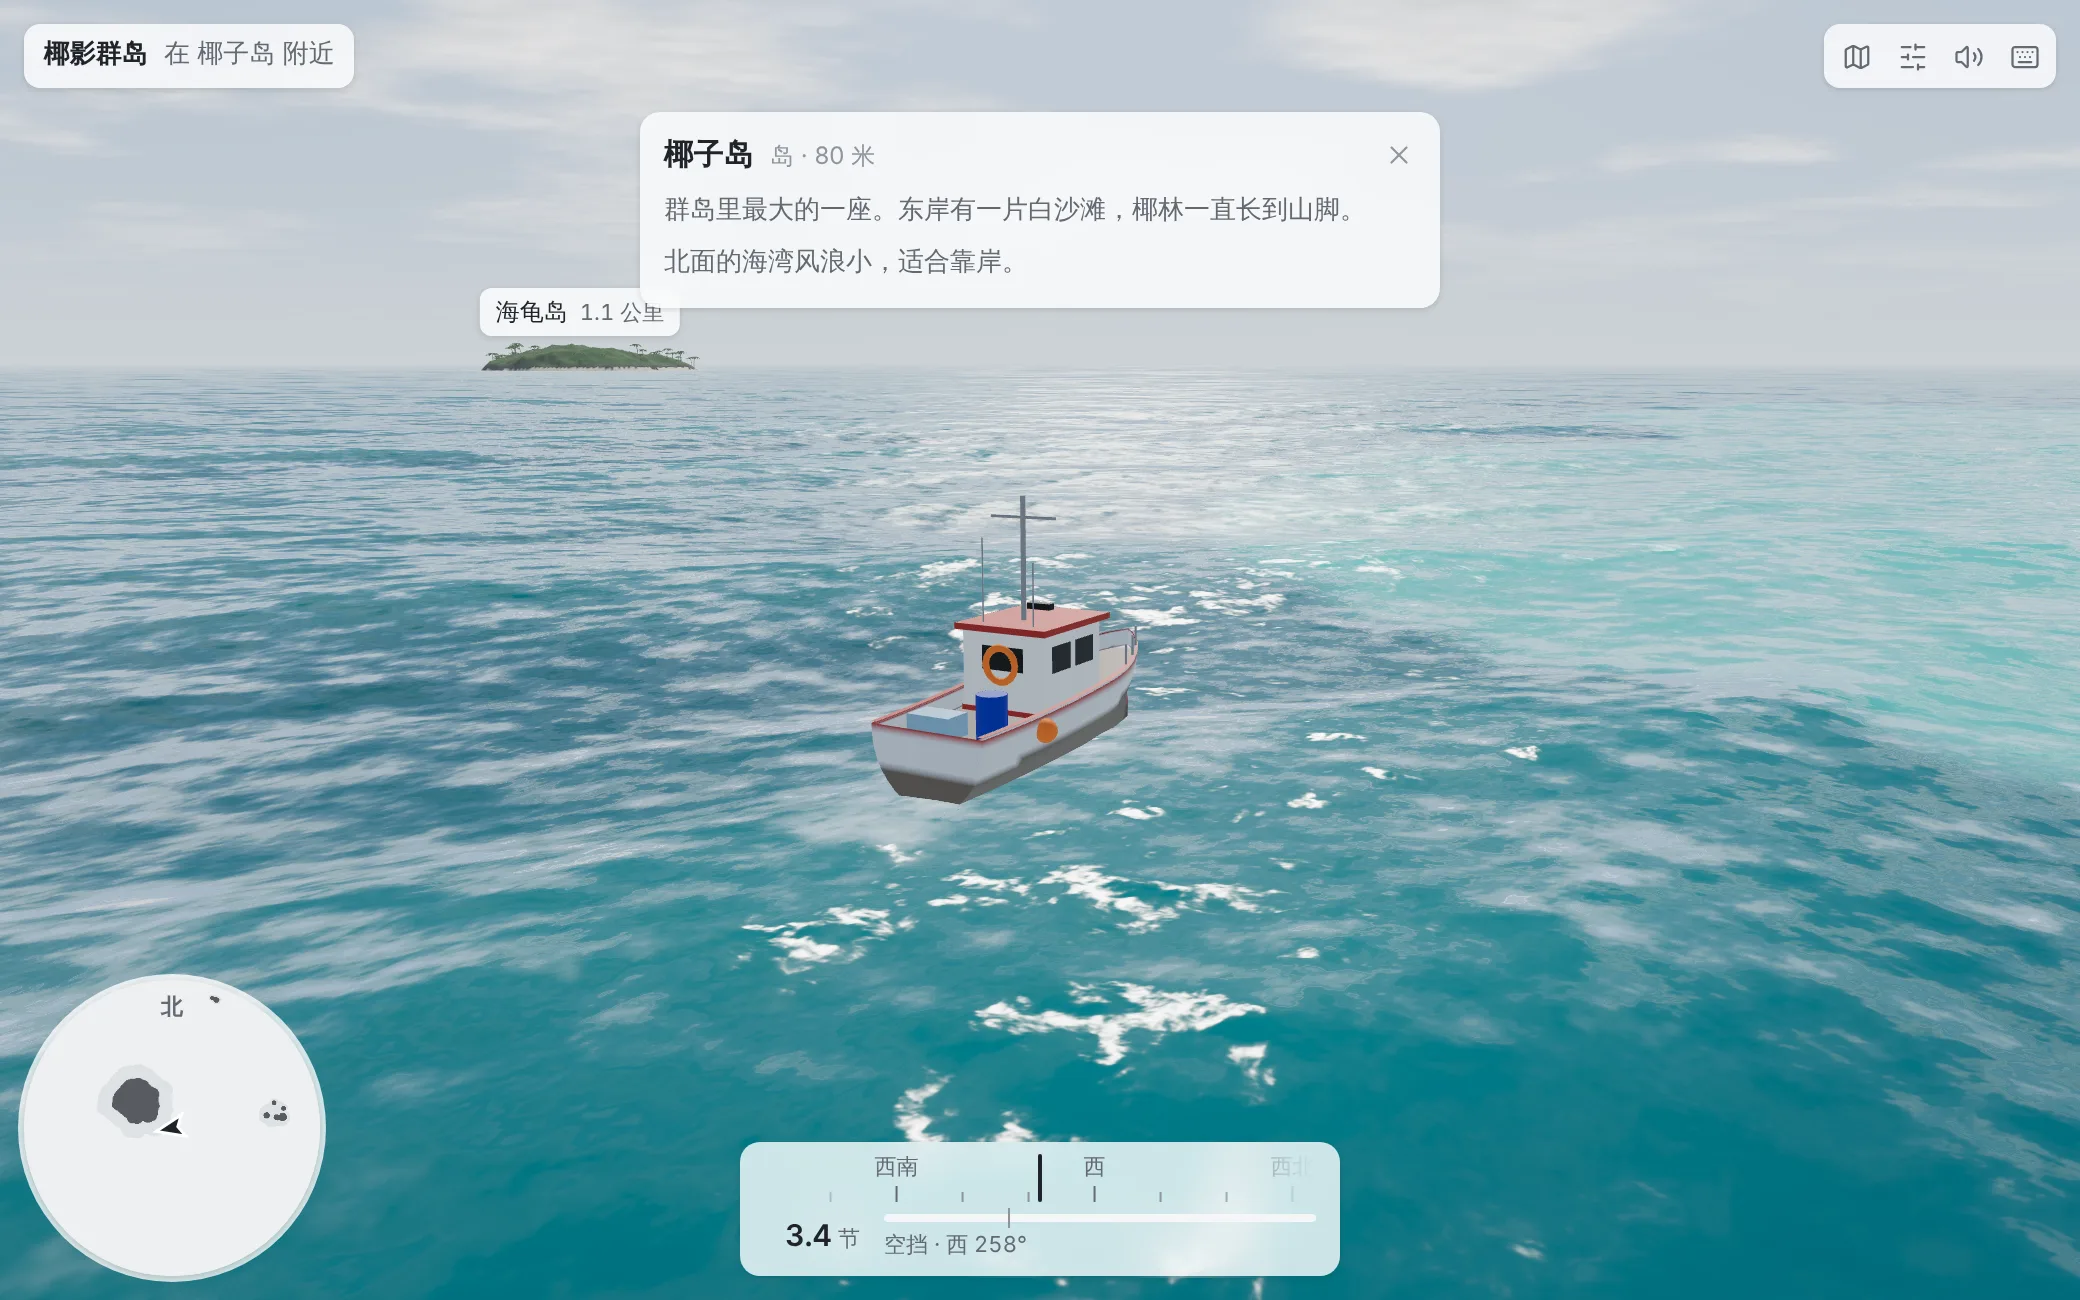
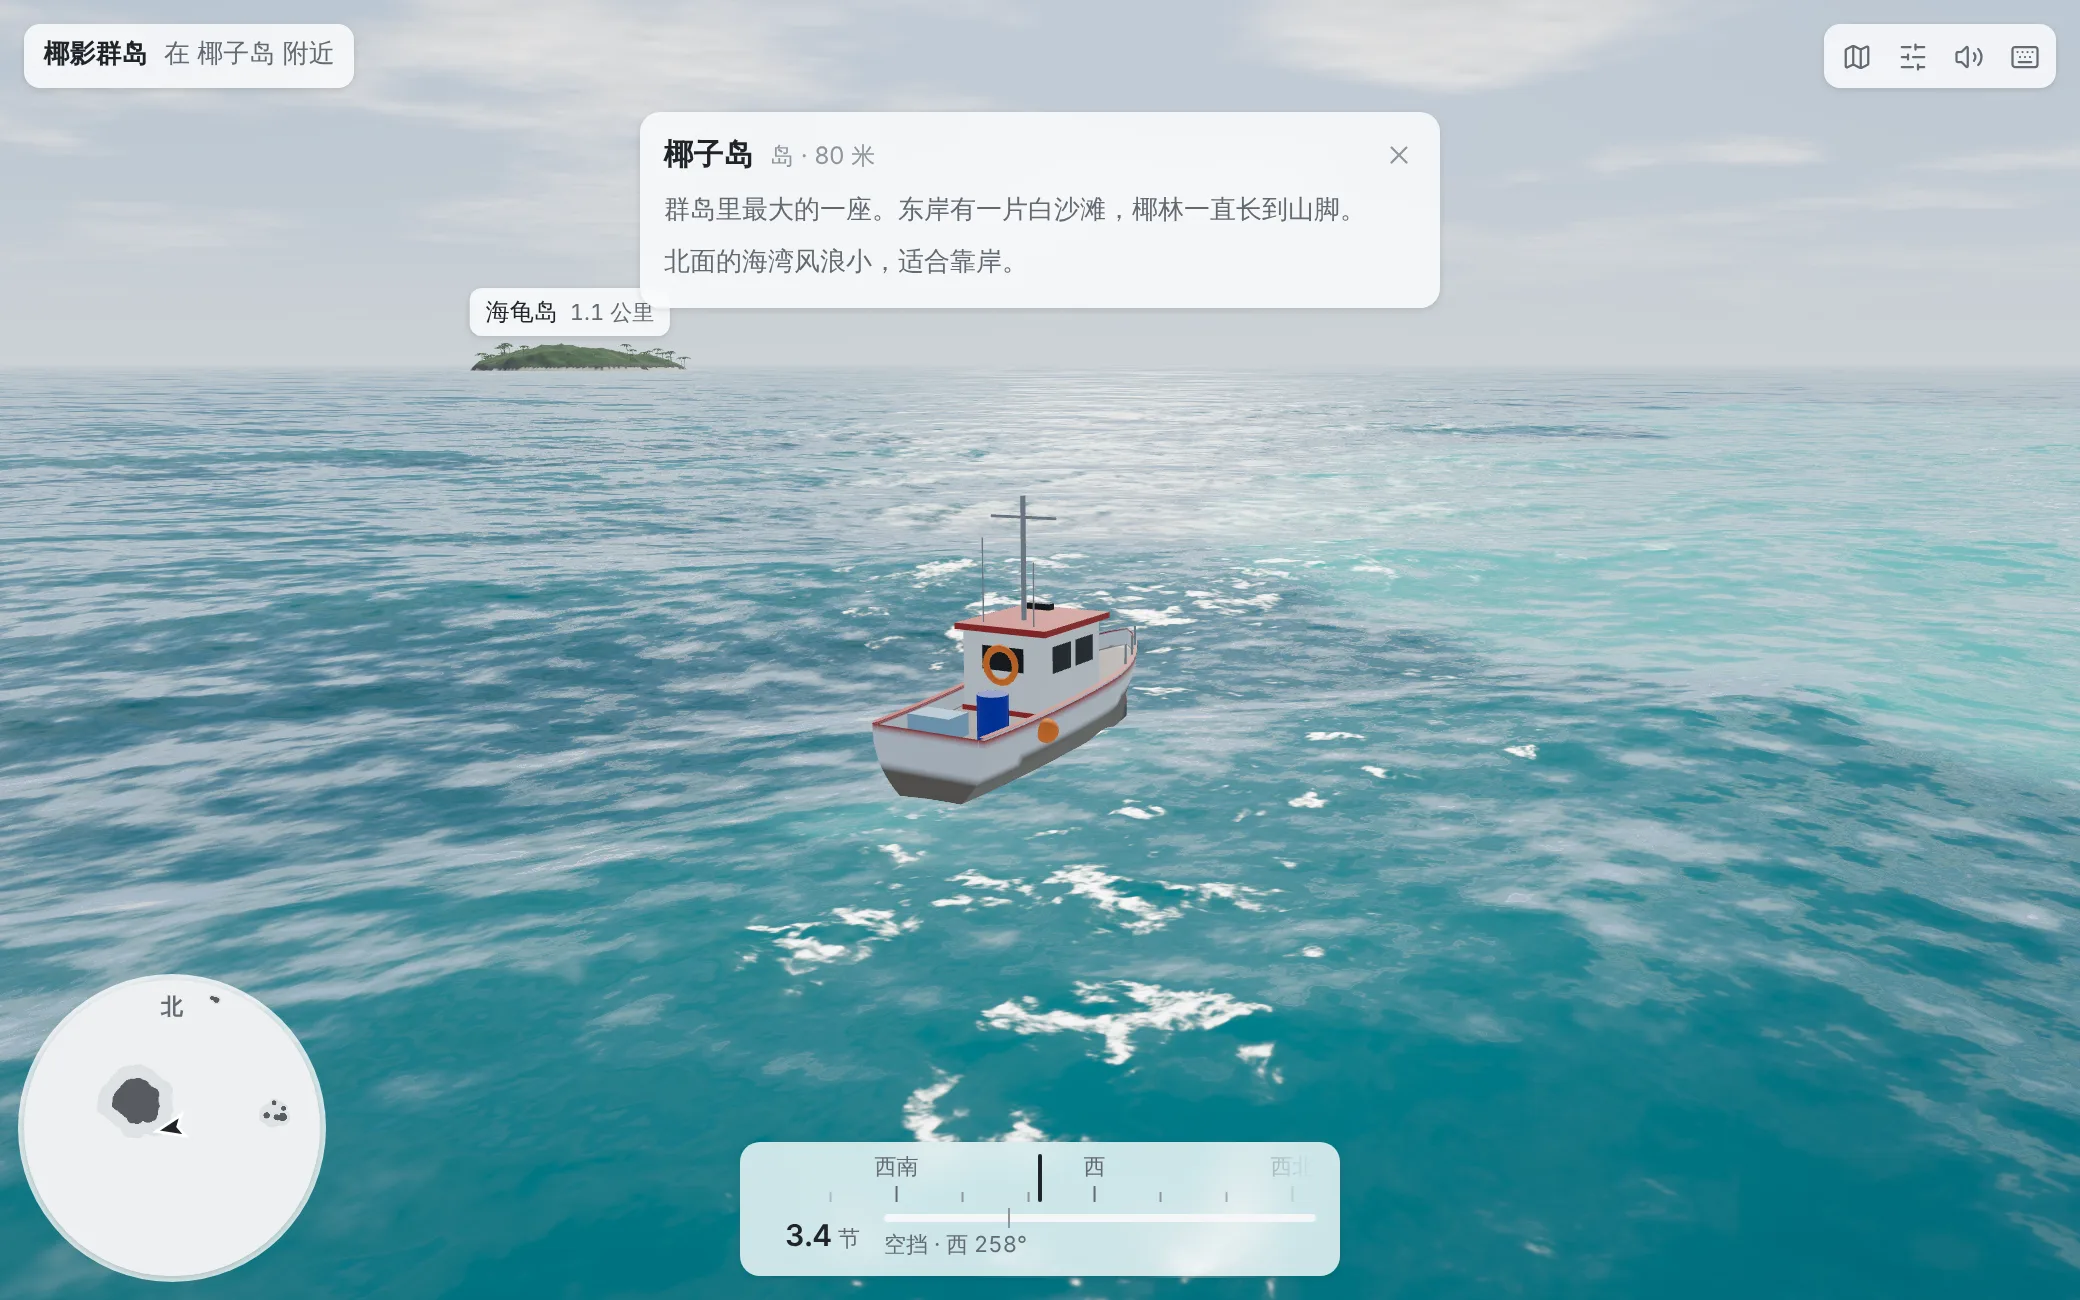
航海: a wake that looks like water, not paint
The wake texture now carries three things: foam, bubbles under the
surface, and the height of the bow's V. The sea's shader raises the V
into ridges (lit by their slopes, a little foam on their crests), turns
the bubbles into the pale turquoise trail behind a boat, and tears the
churn behind the stern into ragged foam that breaks up as it ages. White
water now runs along the hull from the bow.

Claude-Session: https://claude.ai/code/session_01CewNoAFbrSSvGsNNKPnVJH

diff --git a/templates/src/ocean/wake.ts b/templates/src/ocean/wake.ts
@@ -1,14 +1,18 @@
 // The boat's wake, drawn from above into a small texture that moves with
-// the boat: the churned water behind the stern and the two arms of the V
-// that spread from the bow. The sea's shader turns it into foam.
+// the boat: the churned water behind the stern (white foam, then a trail
+// of bubbles), the two arms of the V that spread from the bow (ridges of
+// water with a little foam), and the white water along the hull. The
+// sea's shader raises the ridges, lights them, and turns the rest into
+// foam and paler water.
 
 import * as THREE from "three";
 import { clamp } from "./noise";
-import { LENGTH, MAX_SPEED, type BoatState } from "./boat";
+import { LENGTH, MAX_SPEED, halfWidth, type BoatState } from "./boat";
 
 export const WAKE_SIZE = 240; // metres across the texture
 const RES = 512;
-const LIFE = 14; // seconds a bit of wake lasts
+const LIFE = 16; // seconds a bit of wake lasts
+const MAX_QUADS = 3200;
 type Mark = { x: number; z: number; fx: number; fz: number; v: number; t: number };
 
 export class Wake {
@@ -19,19 +23,30 @@ export class Wake {
   private scene = new THREE.Scene();
   private cam = new THREE.OrthographicCamera(-WAKE_SIZE / 2, WAKE_SIZE / 2, WAKE_SIZE / 2, -WAKE_SIZE / 2, -10, 10);
   private geo = new THREE.BufferGeometry();
-  private pos = new Float32Array(6 * 3 * 2400);
-  private val = new Float32Array(6 * 2400);
-  private across = new Float32Array(6 * 2400);
+  private pos = new Float32Array(6 * 3 * MAX_QUADS);
+  private val = new Float32Array(6 * 3 * MAX_QUADS); // foam, bubbles, ridge
+  private across = new Float32Array(6 * MAX_QUADS);
+  private along = new Float32Array(6 * MAX_QUADS);
+  private n = 0;
 
   constructor() {
     this.target.texture.minFilter = this.target.texture.magFilter = THREE.LinearFilter;
-    this.geo.setAttribute("position", new THREE.BufferAttribute(this.pos, 3).setUsage(THREE.DynamicDrawUsage));
-    this.geo.setAttribute("v", new THREE.BufferAttribute(this.val, 1).setUsage(THREE.DynamicDrawUsage));
-    this.geo.setAttribute("c", new THREE.BufferAttribute(this.across, 1).setUsage(THREE.DynamicDrawUsage));
+    const dyn = (a: Float32Array, k: number) => new THREE.BufferAttribute(a, k).setUsage(THREE.DynamicDrawUsage);
+    this.geo.setAttribute("position", dyn(this.pos, 3));
+    this.geo.setAttribute("v", dyn(this.val, 3));
+    this.geo.setAttribute("c", dyn(this.across, 1));
+    this.geo.setAttribute("a", dyn(this.along, 1));
     const mat = new THREE.ShaderMaterial({
-      vertexShader: "attribute float v; attribute float c; varying float vv; varying float vc; void main(){ vv = v; vc = c; gl_Position = projectionMatrix * viewMatrix * vec4(position, 1.0); }",
-      // soft edges: strongest along the middle of each band
-      fragmentShader: "varying float vv; varying float vc; void main(){ gl_FragColor = vec4(vv * sqrt(max(0.0, 1.0 - vc * vc)), 0.0, 0.0, 1.0); }",
+      vertexShader: "attribute vec3 v; attribute float c; attribute float a; varying vec3 vv; varying float vc; varying float va; void main(){ vv = v; vc = c; va = a; gl_Position = projectionMatrix * viewMatrix * vec4(position, 1.0); }",
+      // red: foam, soft-edged; green: bubbles under the surface; blue: a
+      // ridge of water (0.5 is flat), highest along the middle, in a row of crests
+      fragmentShader: `varying vec3 vv; varying float vc; varying float va;
+        void main(){
+          float edge = sqrt(max(0.0, 1.0 - vc * vc));
+          float ridge = cos(clamp(vc, -1.0, 1.0) * 1.5708); ridge *= ridge;
+          float crests = 0.55 + 0.45 * sin(va + 0.9 * sin(va * 0.37));
+          gl_FragColor = vec4(vv.x * edge, vv.y * edge, 0.5 + 0.5 * vv.z * ridge * crests, 1.0);
+        }`,
       blending: THREE.CustomBlending, blendEquation: THREE.MaxEquation, blendSrc: THREE.OneFactor, blendDst: THREE.OneFactor,
       depthTest: false, depthWrite: false, side: THREE.DoubleSide,
     });
@@ -51,55 +66,89 @@ export class Wake {
     this.marks.push({ x: b.x, z: b.z, fx: Math.sin(b.heading), fz: -Math.cos(b.heading), v: Math.max(0, b.speed), t });
   }
 
+  /** A band from a to b (half widths wa, wb), with foam, bubbles and ridge at each end. */
+  private band(ax: number, az: number, bx: number, bz: number, wa: number, wb: number, va: number[], vb: number[], la: number, lb: number) {
+    if (this.n >= MAX_QUADS || Math.max(...va, ...vb) <= 0.003) return;
+    let dx = bx - ax, dz = bz - az;
+    const len = Math.hypot(dx, dz) || 1;
+    dx /= len; dz /= len;
+    const px = -dz, pz = dx;
+    const o = this.n * 18, w = this.n * 6, c3 = this.n * 18;
+    const A = [ax + px * wa, az + pz * wa], B = [ax - px * wa, az - pz * wa], C = [bx + px * wb, bz + pz * wb], D = [bx - px * wb, bz - pz * wb];
+    this.pos.set([A[0], 0, A[1], B[0], 0, B[1], C[0], 0, C[1], C[0], 0, C[1], B[0], 0, B[1], D[0], 0, D[1]], o);
+    this.val.set([...va, ...va, ...vb, ...vb, ...va, ...vb], c3);
+    this.across.set([1, -1, 1, 1, -1, -1], w);
+    this.along.set([la, la, lb, lb, la, lb], w);
+    this.n++;
+  }
+
   /** Draws the wake into the texture around the boat. */
   render(r: THREE.WebGLRenderer, b: BoatState, t: number) {
     const px = WAKE_SIZE / RES;
     this.center.set(Math.round(b.x / px) * px, Math.round(b.z / px) * px);
     this.cam.position.set(this.center.x, 5, this.center.y);
     this.cam.lookAt(this.center.x, 0, this.center.y);
-    let n = 0;
-    const quad = (ax: number, az: number, bx: number, bz: number, wa: number, wb: number, va: number, vb: number, dxa: number, dza: number, dxb: number, dzb: number) => {
-      if (n >= 2400 || (va <= 0.002 && vb <= 0.002)) return;
-      // perpendicular at each end
-      const pa = [-dza * wa, dxa * wa], pb = [-dzb * wb, dxb * wb];
-      const p = this.pos, v = this.val, o = n * 18, w = n * 6;
-      const A = [ax + pa[0], az + pa[1]], B = [ax - pa[0], az - pa[1]], C = [bx + pb[0], bz + pb[1]], D = [bx - pb[0], bz - pb[1]];
-      p.set([A[0], 0, A[1], B[0], 0, B[1], C[0], 0, C[1], C[0], 0, C[1], B[0], 0, B[1], D[0], 0, D[1]], o);
-      v.set([va, va, vb, vb, va, vb], w);
-      this.across.set([1, -1, 1, 1, -1, -1], w);
-      n++;
-    };
-    const ms = this.marks;
+    this.n = 0;
     const cur: Mark = { x: b.x, z: b.z, fx: Math.sin(b.heading), fz: -Math.cos(b.heading), v: Math.max(0, b.speed), t };
-    const all = [...ms, cur];
-    const stern = (m: Mark) => [m.x - m.fx * LENGTH * 0.5, m.z - m.fz * LENGTH * 0.5];
-    const bow = (m: Mark) => [m.x + m.fx * LENGTH * 0.42, m.z + m.fz * LENGTH * 0.42];
-    for (let i = 0; i < all.length - 1; i++) {
-      const a = all[i], c = all[i + 1];
-      const ageA = t - a.t, ageC = t - c.t;
-      const sa = clamp(a.v / MAX_SPEED, 0, 1), sc = clamp(c.v / MAX_SPEED, 0, 1);
-      const life = (age: number) => Math.pow(clamp(1 - age / LIFE, 0, 1), 1.6);
-      // the churned water behind the stern: widening, fading
-      const [ax, az] = stern(a), [cx, cz] = stern(c);
-      const wA = 1.1 + ageA * (0.45 + sa * 0.6), wC = 1.1 + ageC * (0.45 + sc * 0.6);
-      quad(ax, az, cx, cz, wA, wC, Math.min(1, sa * 2.2 + 0.08 * (a.v > 0.5 ? 1 : 0)) * life(ageA), Math.min(1, sc * 2.2) * life(ageC), a.fx, a.fz, c.fx, c.fz);
-      // the V from the bow: each arm moves out at about 19.5° to the track
+    const all = [...this.marks, cur];
+    const at = (m: Mark, s: number) => [m.x + m.fx * LENGTH * s, m.z + m.fz * LENGTH * s];
+    const sp = (m: Mark) => clamp(m.v / MAX_SPEED, 0, 1);
+    let dist = 0;
+    for (let i = all.length - 1; i > 0; i--) {
+      const c = all[i], a = all[i - 1];
+      const ageC = t - c.t, ageA = t - a.t;
+      const sc = sp(c), sa = sp(a);
+      const step = Math.hypot(c.x - a.x, c.z - a.z);
+      const dC = dist, dA = dist + step;
+      dist = dA;
+      // behind the stern: white churn at first, then a trail of bubbles
+      const [cx, cz] = at(c, -0.5), [ax, az] = at(a, -0.5);
+      const churn = (age: number, s: number) => [
+        Math.min(1, s * 2.6 + (s > 0.04 ? 0.15 : 0)) * Math.pow(clamp(1 - age / (LIFE * 0.3), 0, 1), 1.6),
+        Math.min(1, s * 2.2 + (s > 0.04 ? 0.2 : 0)) * Math.pow(clamp(1 - age / LIFE, 0, 1), 1.2),
+        0,
+      ];
+      const wid = (age: number, s: number) => 0.9 + s * 0.7 + age * (0.35 + s * 0.45);
+      this.band(cx, cz, ax, az, wid(ageC, sc), wid(ageA, sa), churn(ageC, sc), churn(ageA, sa), dC, dA);
+      // a wider, fainter scar of bubbles around the churn
+      const scar = (age: number, s: number) => [0, Math.min(0.55, s * 1.4) * Math.pow(clamp(1 - age / LIFE, 0, 1), 1.5), 0];
+      this.band(cx, cz, ax, az, wid(ageC, sc) * 1.9 + 1, wid(ageA, sa) * 1.9 + 1, scar(ageC, sc), scar(ageA, sa), dC, dA);
+      // the V from the bow: each arm a ridge moving out at about 19.5° to the track
       for (const side of [1, -1]) {
-        const [bx, bz] = bow(a), [dx, dz] = bow(c);
-        const oa = ageA * a.v * 0.354, oc = ageC * c.v * 0.354;
-        const ex = bx + -a.fz * side * oa - a.fx * ageA * 0.2, ez = bz + a.fx * side * oa - a.fz * ageA * 0.2;
-        const gx = dx + -c.fz * side * oc - c.fx * ageC * 0.2, gz = dz + c.fx * side * oc - c.fz * ageC * 0.2;
-        const vv = (age: number, s: number) => Math.min(0.55, s * 1.6) * Math.pow(clamp(1 - age / (LIFE * 0.6), 0, 1), 2) * clamp(age * 4, 0, 1);
-        quad(ex, ez, gx, gz, 0.5 + ageA * 0.12, 0.5 + ageC * 0.12, vv(ageA, sa), vv(ageC, sc), a.fx, a.fz, c.fx, c.fz);
+        const [bx, bz] = at(c, 0.42), [dx, dz] = at(a, 0.42);
+        const oc = ageC * c.v * 0.354, oa = ageA * a.v * 0.354;
+        const ex = bx - c.fz * side * oc, ez = bz + c.fx * side * oc;
+        const gx = dx - a.fz * side * oa, gz = dz + a.fx * side * oa;
+        const arm = (age: number, s: number) => {
+          const life = Math.pow(clamp(1 - age / (LIFE * 0.7), 0, 1), 1.6) * clamp(age * 3, 0, 1);
+          return [Math.min(0.85, s * 2) * life * Math.pow(clamp(1 - age / 6, 0, 1), 1.3), Math.min(0.7, s * 1.8) * life, Math.min(1, s * 2.6) * life];
+        };
+        const aw = (age: number) => 1.5 + age * 0.45;
+        // crests along the arm: about one every 3 m
+        this.band(ex, ez, gx, gz, aw(ageC), aw(ageA), arm(ageC, sc), arm(ageA, sa), dC * 2.1, dA * 2.1);
       }
     }
+    // white water pushed up along the hull, from the bow back
+    const s0 = sp(cur);
+    if (s0 > 0.02) {
+      for (const side of [1, -1]) {
+        const pts = [0.9, 0.72, 0.52, 0.32].map((s) => {
+          const off = halfWidth(s) + 0.15 + (0.9 - s) * 0.9;
+          const [x, z] = at(cur, s - 0.5);
+          return [x - cur.fz * side * off, z + cur.fx * side * off, s];
+        });
+        for (let i = 0; i < pts.length - 1; i++) {
+          const f = (s: number) => [Math.min(1, s0 * 2.4) * (0.5 + 0.5 * s), Math.min(1, s0 * 2), Math.min(0.8, s0 * 2.2) * s];
+          this.band(pts[i][0], pts[i][1], pts[i + 1][0], pts[i + 1][1], 0.35 + (0.9 - pts[i][2]) * 0.5, 0.35 + (0.9 - pts[i + 1][2]) * 0.5, f(pts[i][2]), f(pts[i + 1][2]), i * 2, i * 2 + 2);
+        }
+      }
+    }
+    const n = this.n;
     this.geo.setDrawRange(0, n * 6);
-    (this.geo.attributes.position as THREE.BufferAttribute).needsUpdate = true;
-    (this.geo.attributes.v as THREE.BufferAttribute).needsUpdate = true;
-    (this.geo.attributes.c as THREE.BufferAttribute).needsUpdate = true;
+    for (const k of ["position", "v", "c", "a"]) (this.geo.attributes[k] as THREE.BufferAttribute).needsUpdate = true;
     const prev = r.getRenderTarget(), clear = r.getClearColor(new THREE.Color()), alpha = r.getClearAlpha();
     r.setRenderTarget(this.target);
-    r.setClearColor(0x000000, 1);
+    r.setClearColor(new THREE.Color(0, 0, 0.5), 1);
     r.clear(true, false, false);
     r.render(this.scene, this.cam);
     r.setRenderTarget(prev);

diff --git a/templates/src/ocean/ocean.ts b/templates/src/ocean/ocean.ts
@@ -11,6 +11,7 @@ import { GEO_WAVES } from "./waves";
 import { HULL_GLSL } from "./boat";
 
 export const SEABED_LOW = -12, SEABED_SPAN = 14; // what the seabed texture holds (m)
+const WAKE_RIDGE = 0.55; // the wake's ridges at their highest (m)
 
 /** Rings of vertices around the centre; each knows how far apart it is from its neighbours. */
 function discGeometry(r0 = 0.4, far = 7000, seg = 220, grow = 1.034) {
@@ -147,6 +148,9 @@ export function oceanMaterial(sky: SkyUniforms) {
       uniform vec4 uWB[GEO];
       uniform vec2 uCenter;
       uniform float uTime;
+      uniform sampler2D uWake;
+      uniform vec2 uWakeCenter;
+      uniform float uWakeSize;
       attribute float spacing;
       varying vec3 vWorld;
       varying vec2 vFlat;
@@ -163,6 +167,9 @@ export function oceanMaterial(sky: SkyUniforms) {
           d.y += f * B.x * s;
         }
         vec3 wp = vec3(p.x + d.x, d.y, p.y + d.z);
+        // the wake's ridges lift the water (up to about half a metre)
+        vec2 wuv = vec2((p.x - uWakeCenter.x) / uWakeSize + 0.5, -(p.y - uWakeCenter.y) / uWakeSize + 0.5);
+        if (wuv.x > 0.0 && wuv.x < 1.0 && wuv.y > 0.0 && wuv.y < 1.0) wp.y += (texture2D(uWake, wuv).b - 0.5) * ${WAKE_RIDGE.toFixed(2)} * 2.0;
         vWorld = wp;
         vFlat = p;
         gl_Position = projectionMatrix * viewMatrix * vec4(wp, 1.0);
@@ -218,6 +225,17 @@ export function oceanMaterial(sky: SkyUniforms) {
         vec2 r3 = texture2D(uRipple, mat2(0.6, -0.8, 0.8, 0.6) * p / 23.0 + wd * uTime * 0.02).rg * 2.0 - 1.0;
         float near = 1.0 - smoothstep(80.0, 900.0, dist);
         vec2 rip = (r1 * 0.16 + r2 * 0.09 * near + r3 * 0.22) * uRippleAmt;
+        // the wake here: foam, bubbles, and the slope of its ridges
+        vec4 wk = vec4(0.0, 0.0, 0.5, 0.0);
+        vec2 wUV = topUV(vWorld.xz, uWakeCenter, uWakeSize);
+        if (wUV.x > 0.002 && wUV.x < 0.998 && wUV.y > 0.002 && wUV.y < 0.998) {
+          wk = texture2D(uWake, wUV);
+          float e = 1.0 / 512.0, m = uWakeSize / 512.0 * 2.0;
+          float k = ${WAKE_RIDGE.toFixed(2)} * 2.0;
+          float dx = (texture2D(uWake, wUV + vec2(e, 0.0)).b - texture2D(uWake, wUV - vec2(e, 0.0)).b) * k / m;
+          float dz = -(texture2D(uWake, wUV + vec2(0.0, e)).b - texture2D(uWake, wUV - vec2(0.0, e)).b) * k / m;
+          nx -= dx; nz -= dz;
+        }
         vec3 N = normalize(vec3(nx + rip.x, 1.0 - comp, nz + rip.y));
         float jac = 1.0 - comp; // small where the crest is pinched (it breaks)
 
@@ -253,6 +271,8 @@ export function oceanMaterial(sky: SkyUniforms) {
         // light through the crests: brighter, greener where the wave stands up
         float through = pow(max(dot(-V, normalize(vec3(L.x, 0.25, L.z))), 0.0), 3.0);
         body += vec3(0.02, 0.2, 0.17) * crest * (0.35 + 1.2 * through);
+        // bubbles stirred under the surface: paler, greener water
+        body = mix(body, vec3(0.15, 0.66, 0.62), clamp(wk.g, 0.0, 1.0) * 0.7);
         body *= skyLight * 0.75 + sunLight * 0.35;
 
         vec3 col = mix(body, refl, F);
@@ -278,13 +298,20 @@ export function oceanMaterial(sky: SkyUniforms) {
         float band = 0.5 + 0.5 * sin(depth * 5.0 - uTime * 1.6 + tex * 4.0);
         float edge = 1.0 - smoothstep(0.0, 0.35, depth);
         foam += max(edge * smoothstep(0.2, 0.6, tex + edge * 0.3), shore * smoothstep(0.45, 0.85, band * tex + shore * 0.25)) * (0.4 + 0.6 * uFoamAmt);
-        vec2 wUV = topUV(vWorld.xz, uWakeCenter, uWakeSize);
-        if (wUV.x > 0.0 && wUV.x < 1.0 && wUV.y > 0.0 && wUV.y < 1.0) {
-          float w = texture2D(uWake, wUV).r;
-          // white and churned near the stern, a lacy scar further back
-          float fine = texture2D(uFoamTex, fp * 0.42 + vec2(0.31, 0.17) * uTime * 0.05).r;
-          float lace = smoothstep(0.3, 0.72, fine * 0.7 + tex * 0.35 + w * 0.32);
-          foam += clamp(w * 1.15, 0.0, 1.0) * lace;
+        {
+          // the wake's foam: dense and torn at the stern, breaking up into
+          // patches and specks, ragged at its edges (never a painted band)
+          float w = wk.r;
+          float fine = texture2D(uFoamTex, fp * 0.55 + vec2(0.31, 0.17) * uTime * 0.04).r;
+          float mid = texture2D(uFoamTex, fp * 0.19 - vec2(0.12, 0.27) * uTime * 0.03).r;
+          float n = fine * 0.55 + mid * 0.45;
+          // (older churn, weaker, tears into patches and streaks)
+          float churn = smoothstep(0.55, 0.8, w * 0.62 + n * 0.7 - 0.12) * smoothstep(0.02, 0.25, w);
+          float specks = smoothstep(0.62, 0.8, fine) * smoothstep(0.05, 0.4, w);
+          // a little foam where the V's ridges stand highest
+          float ridge = clamp((wk.b - 0.5) * 2.0, 0.0, 1.0);
+          float crestFoam = smoothstep(0.3, 0.75, ridge) * smoothstep(0.42, 0.7, n + w * 0.4) * 0.9;
+          foam += max(churn, max(specks * 0.8, crestFoam));
         }
         foam = clamp(foam, 0.0, 1.0) * (1.0 - smoothstep(600.0, 2400.0, dist) * 0.7);
         vec3 foamCol = vec3(0.92, 0.95, 0.96) * (skyLight * 0.9 + sunLight * 0.45 * max(N.y, 0.0));
